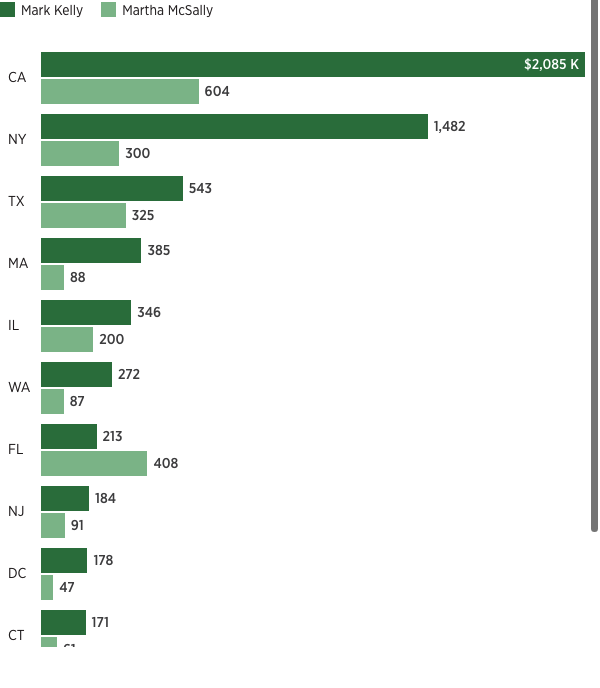
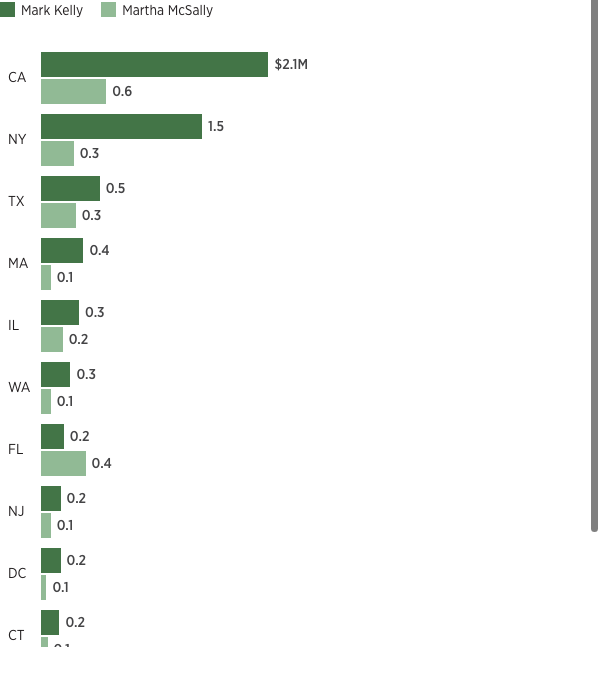
adds edits to AZ FEC bar charts

Changed region(s): [[0.06, 0.061, 0.99, 0.9462], [0.0, 0.0, 0.03, 0.0305]]

diff --git a/az-fec-out-20200208/graphic.js b/az-fec-out-20200208/graphic.js
@@ -278,11 +278,11 @@ var renderGroupedBarChart = function(config) {
     .enter()
     .append("text")
     .text(function(d) {
-      var v = d[valueColumn].toFixed(0).replace(/\B(?=(\d{3})+(?!\d))/g, ","); //add comma to thousands
+      var v = d[valueColumn].toFixed(1).replace(/\B(?=(\d{3})+(?!\d))/g, ","); //add comma to thousands
 
-      if (d[valueColumn] > 0 && v == 0) {
-        v = "<1";
-      }
+      // if (d[valueColumn] > 0 && v == 0) {
+      //   v = "<1";
+      // }
 
       //add measure like % or $ or M in the below line like: + "%"
       //it will appear for all the values except the first one.
@@ -309,7 +309,7 @@ var renderGroupedBarChart = function(config) {
       } else {
         if (xStart + valueGap + textWidth > chartWidth) {
           d3.select(this).classed("in", true);
-          return - (valueGap + textWidth + 20); //pushes in-classed text further in
+          return - (valueGap + textWidth); // adding `+ #` pushes in-classed text further in
         } else {
           d3.select(this).classed("out", true);
           return valueGap;
@@ -321,7 +321,7 @@ var renderGroupedBarChart = function(config) {
     //First bar label/value text is different, we add $ and/or M only to first one.
     d3.select('g.bars:nth-of-type(1) .value text:nth-of-type(1)')
         .text(function(d) {
-            return "$" + d[valueColumn].toFixed(0).replace(/\B(?=(\d{3})+(?!\d))/g, ",") + ' K'; //the regex adds the comma we want
+            return "$" + d[valueColumn].toFixed(1).replace(/\B(?=(\d{3})+(?!\d))/g, ",") + 'M'; //the regex adds the comma we want
         });
 };
 

diff --git a/az-fec-top-20200208/graphic.js b/az-fec-top-20200208/graphic.js
@@ -219,7 +219,7 @@ var renderBarChart = function (config) {
     .append("text")
     .text(function (d, i) {
       if (i == 0) { 
-        return "$" + d[valueColumn].toFixed(1) + " M" //use this line to create labels on the first unit
+        return "$" + d[valueColumn].toFixed(1) + "M" //use this line to create labels on the first unit
       } else {
 
         return d[valueColumn].toFixed(1) //use the .toFixed() function to specify decimals
